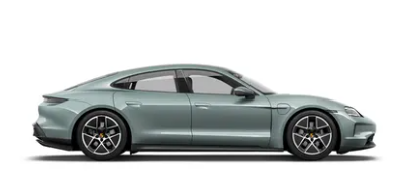
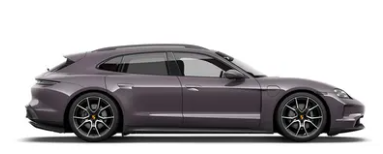
asd

diff --git a/rentals/rentals.js b/rentals/rentals.js
@@ -10,7 +10,7 @@ document.addEventListener("DOMContentLoaded", () => {
         "A Porsche 911 GT3 RS a motorsport technológiáját hozza el az utakra. Lenyűgöző aerodinamikával, könnyített vázzal és versenypályára optimalizált teljesítménnyel. Ez az autó a sebesség szerelmeseinek készült.",
     },
     {
-      name: "Porsche Taycan",
+      name: "Taycan 4S Sport Turismo",
       img: "../assets/taycan.png",
       description:
         "Korszerű elektromos autó, amely ötvözi a gyorsaságot, a fenntarthatóságot és a Porsche által nyújtott luxust.",
